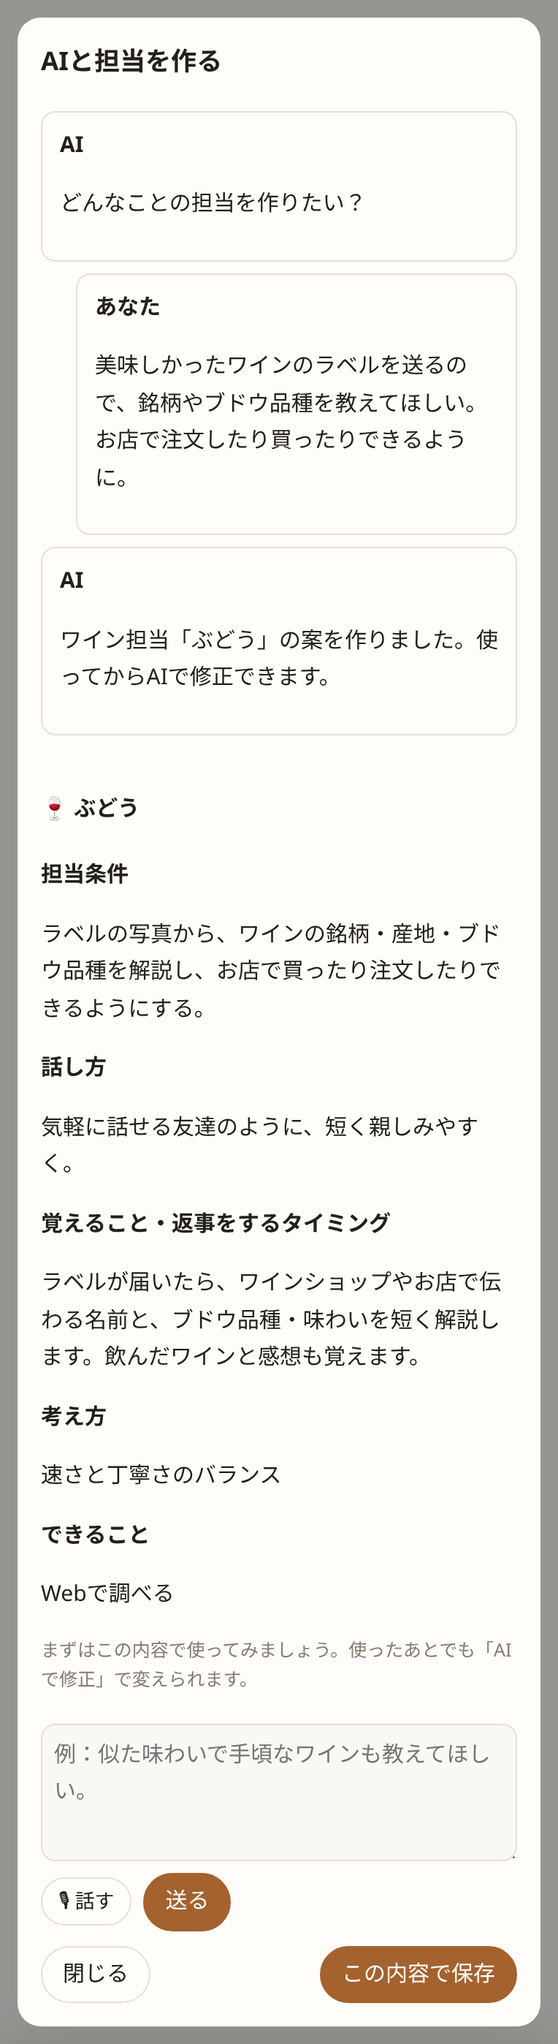
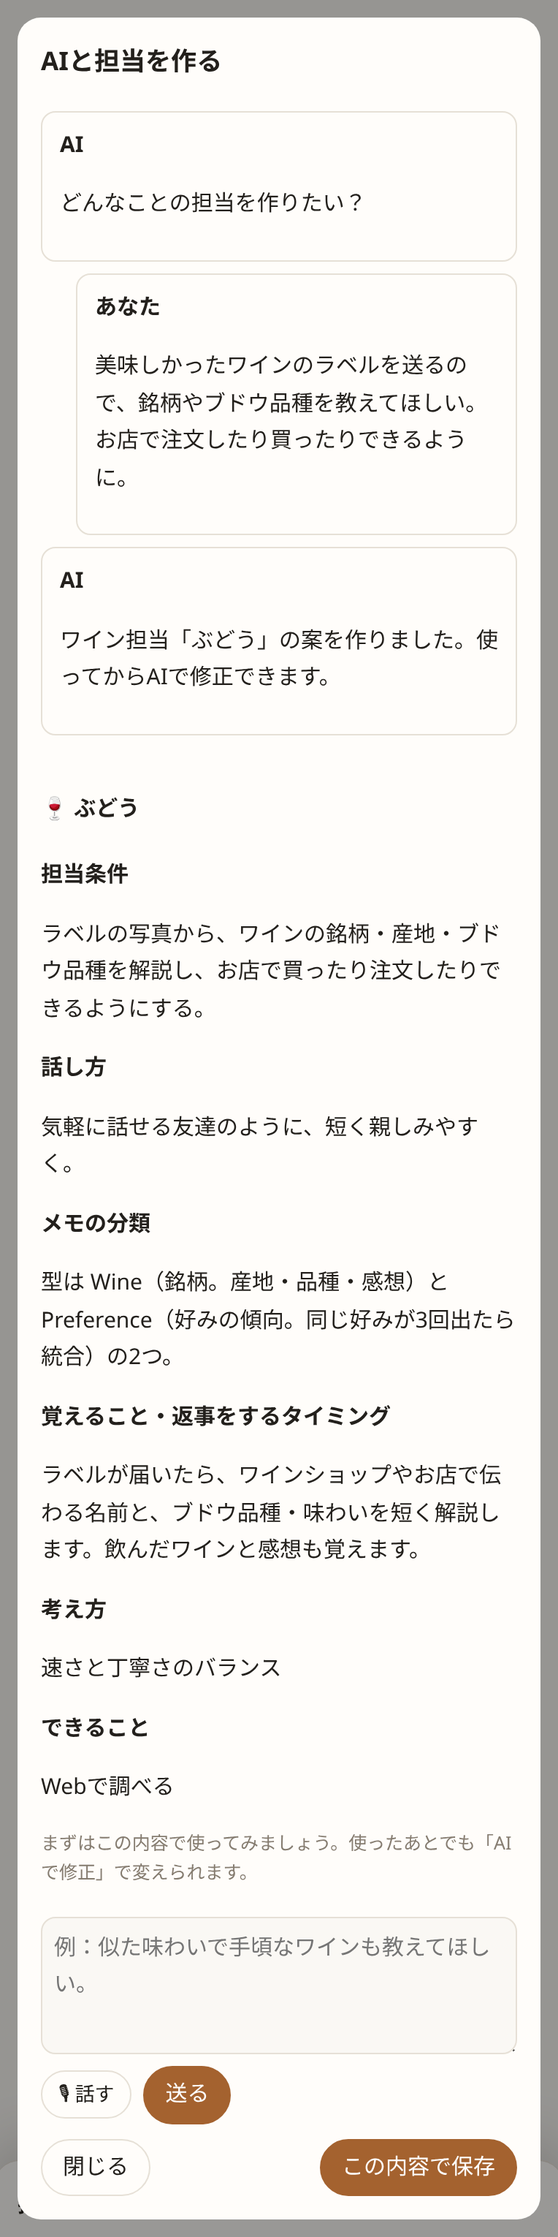
Give each persona a memory layout of its own, and let a note carry only a kind it names

diff --git a/frontend/manual/index.html b/frontend/manual/index.html
@@ -209,8 +209,8 @@
             <figcaption>「ワイン」や「読書」だけでも始められます。長い質問票はありません。</figcaption>
           </figure>
           <figure>
-            <img src="/captures/ja/persona-draft.png" alt="AIが下書きしたワイン担当を確認して保存する" loading="lazy" width="382" height="1398" />
-            <figcaption>下書きは、担当すること、話し方、覚えること・返事をするタイミングの順に確認できます。</figcaption>
+            <img src="/captures/ja/persona-draft.png" alt="AIが下書きしたワイン担当を確認して保存する" loading="lazy" width="382" height="1530" />
+            <figcaption>下書きは、担当すること、話し方、メモの分類、覚えること・返事をするタイミングの順に確認できます。</figcaption>
           </figure>
           <h3>使いながら育てる</h3>
           <p>担当の <strong>AIで修正</strong> から「もっと短く返事してほしい」「銘柄だけでなく、なぜ気に入ったかも覚えてほしい」のように頼めます。組み込みの担当も同じように変えられ、これまでのメモと有効・停止の状態はそのまま残ります。</p>
@@ -611,8 +611,8 @@
             <figcaption>Even “wine” or “reading” is enough to start. There is no long questionnaire.</figcaption>
           </figure>
           <figure>
-            <img src="/captures/en/persona-draft.png" alt="Review and save a sample wine persona drafted by AI" loading="lazy" width="382" height="1398" />
-            <figcaption>The draft, in plain language: what it helps with, how it talks, what it remembers, and when it replies.</figcaption>
+            <img src="/captures/en/persona-draft.png" alt="Review and save a sample wine persona drafted by AI" loading="lazy" width="382" height="1530" />
+            <figcaption>The draft, in plain language: what it helps with, how it talks, the kinds of note it keeps, what it remembers, and when it replies.</figcaption>
           </figure>
           <h3>Make it yours as you go</h3>
           <p>Use <strong>Edit with AI</strong> on a persona to say “Give shorter replies” or “Remember why I liked a wine, as well as its name.” Built-in personas can be edited too. Their existing memories and enabled status carry over.</p>

diff --git a/frontend/src/persona-builder.js b/frontend/src/persona-builder.js
@@ -82,7 +82,7 @@ export function showPersonaBuilder({ persona, onSave, getSettings = () => ({}) }
       if (draft) {
         preview.append(el("h4", { text: `${draft.icon || "◎"} ${draft.name}` }));
         const modelLabels = { low: "すばやく短く答える", middle: "速さと丁寧さのバランス", high: "じっくり考えて答える" };
-        for (const [label, value] of [["担当条件", draft.domain], ["話し方", draft.tone], ["覚えること・返事をするタイミング", draft.instructions], ["考え方", t(modelLabels[draft.model])], ["できること", uniqueTools(draft.tools).map(tool => t(toolLabel(tool))).join(" / ") || t("会話と記憶")]]) {
+        for (const [label, value] of [["担当条件", draft.domain], ["話し方", draft.tone], ["メモの分類", draft.memory], ["覚えること・返事をするタイミング", draft.instructions], ["考え方", t(modelLabels[draft.model])], ["できること", uniqueTools(draft.tools).map(tool => t(toolLabel(tool))).join(" / ") || t("会話と記憶")]]) {
           preview.append(el("strong", { label }), el("p", { class: "builder-detail", text: value }));
         }
         preview.append(el("p", { class: "hint", label: "まずはこの内容で使ってみましょう。使ったあとでも「AIで修正」で変えられます。" }));

diff --git a/frontend/stories/Personas.stories.js b/frontend/stories/Personas.stories.js
@@ -62,6 +62,7 @@ export const AICreateDraft = {
     const draft = {
       id: "wine", name: ja ? "ぶどう" : "budou", icon: "🍷", model: "middle", tools: ["web_search"],
       domain: ja ? "ラベルの写真から、ワインの銘柄・産地・ブドウ品種を解説し、お店で買ったり注文したりできるようにする。" : "Identify wines from label photos and explain the producer, region, and grapes so you can buy or order them.",
+      memory: ja ? "型は Wine（銘柄。産地・品種・感想）と Preference（好みの傾向。同じ好みが3回出たら統合）の2つ。" : "Two kinds: Wine (producer, region, grapes, impressions) and Preference (a taste that has come up three times).",
       tone: ja ? "気軽に話せる友達のように、短く親しみやすく。" : "Friendly and relaxed, with short replies.",
       instructions: ja ? "ラベルが届いたら、ワインショップやお店で伝わる名前と、ブドウ品種・味わいを短く解説します。飲んだワインと感想も覚えます。" : "When a label arrives, give the name a shop or restaurant would recognize, with its grapes and style. Remember the wines you try and what you thought.",
     };

diff --git a/frontend/lp/index.html b/frontend/lp/index.html
@@ -140,8 +140,8 @@
             <p class="en">Start using it, then refine its tone and what it remembers through conversation with “Edit with AI”. Built-in personas can be edited the same way.</p>
           </div>
           <figure class="shot crop-bottom">
-            <img class="ja" src="/captures/ja/persona-draft.png" alt="AIが下書きしたワイン担当を確認して保存する" loading="lazy" width="382" height="1398" />
-            <img class="en" src="/captures/en/persona-draft.png" alt="Review and save a sample wine persona drafted by AI" loading="lazy" width="382" height="1398" />
+            <img class="ja" src="/captures/ja/persona-draft.png" alt="AIが下書きしたワイン担当を確認して保存する" loading="lazy" width="382" height="1530" />
+            <img class="en" src="/captures/en/persona-draft.png" alt="Review and save a sample wine persona drafted by AI" loading="lazy" width="382" height="1530" />
           </figure>
         </div>
 

diff --git a/frontend/src/personas.js b/frontend/src/personas.js
@@ -283,7 +283,8 @@ export function createPersonas({ onChange, onSearch, getSettings }) {
           icon: "🍷",
           domain: "ワイン。銘柄、産地、ラベルの写真、飲んだ記録。食事全般や技術の話には反応しない。",
           tone: "控えめ。おすすめを押しつけない。",
-          instructions: "概念は type: Wine（銘柄）と type: Preference（好み）。同じ好みが3回出たら Preference に統合する。引用と本人の意見を分け、推測は明記し、統合後も代表例と反例を残す。",
+          memory: "型は Wine（銘柄。産地・品種・感想）と Preference（好みの傾向）の2つ。同じ好みが3回出たら Preference に統合する。",
+          instructions: "引用と本人の意見を分け、推測は明記し、統合後も代表例と反例を残す。",
           model: "high",
           tools: uniqueTools(toolNames).slice(0, 2),
         },

diff --git a/frontend/src/i18n.js b/frontend/src/i18n.js
@@ -88,6 +88,7 @@ const EN = {
   "繰り返し": "Routines", "一度きりの用": "One-offs",
   "その他のメモ": "Other memories", "記憶の目次": "Memory overview", "記憶の更新履歴": "Memory history",
   "元のメモを見る": "View original note", "関連リンク": "Related link",
+  "メモの分類（型と、それぞれに書くこと）": "Note kinds (each kind, and what goes in it)", "メモの分類": "Note kinds",
   "メモの本文": "Note text", "メモを保存": "Save note", "メモを保存しました": "Note saved.",
   "この発言と一緒に書いたメモを開く": "Open the note written with this remark",
   "担当が書いたメモです。綴りや事実の誤りはここで直せます。下の「記憶を更新した投稿」のリンクはそのまま残ります。": "This is the persona's own note. Fix a misspelling or a wrong fact here; the links under \"Posts behind this memory\" stay as they are.",

diff --git a/frontend/src/persona-editor.js b/frontend/src/persona-editor.js
@@ -29,6 +29,7 @@ const fields = [
   { key: "name", label: "名前", kind: "input", maxlength: 40 },
   { key: "domain", label: "担当条件（振り分けに使います）", kind: "textarea", rows: 4, maxlength: 2000 },
   { key: "tone", label: "話し方", kind: "textarea", rows: 2, maxlength: 2000 },
+  { key: "memory", label: "メモの分類（型と、それぞれに書くこと）", kind: "textarea", rows: 3, maxlength: 2000 },
   { key: "instructions", label: "覚えること・返事をするタイミング", kind: "textarea", rows: 6, maxlength: 8000 },
 ];
 

diff --git a/internal/persona/skill.go b/internal/persona/skill.go
@@ -63,7 +63,13 @@ type Skill struct {
 	// compress them, what is worth saying. The app has no opinion about any of
 	// it and never reads it.
 	Instructions string `json:"instructions"`
-	Model        Tier   `json:"model"`
+	// Memory is how the persona files what it keeps: the few kinds of note it
+	// writes (Wine, Preference), what goes in each, when they are merged. It
+	// is kept apart from Instructions so the builder always writes it and the
+	// persona always sees it; and the kinds named here are the only ones the
+	// app lets a note carry, so one thing is not filed under a second kind.
+	Memory string `json:"memory,omitempty"`
+	Model  Tier   `json:"model"`
 	// Tools are the declared capabilities. Nothing outside this list can be
 	// called, and the app is what calls them.
 	Tools      []string `json:"tools"`
@@ -92,11 +98,11 @@ var Builtins = []Skill{
 		ID: "gourmet", Name: "tabe", Icon: "🍜",
 		Domain: "食べもの・飲みもの・飲食店の話や写真。メニュー、食の好み、何を食べるかの相談も含む。",
 		Tone:   "食い意地の張った友人。うまそうかどうかで喋る。評論はしない。",
-		Instructions: "概念は type: Preference（好みの傾向）と type: Shop（店）の2つを主に使う。" +
+		Memory: "型は Preference（好みの傾向）と Shop（店）の2つ。" +
 			"個々の店より「何を選びがちか」を優先する。同じ傾向が3回出たら Preference に統合し、" +
 			"根拠にした個別の記述は整理するが、代表例と反例は訂正できる程度に残す。" +
-			"引用内容、本人の意見、他者の発言を区別し、推測は推測と明記する。行きたいと言っていた店は Shop に場所とともに残し、" +
-			"行ったあとは感想を足す。index.md には傾向を先に、店を後に並べる。" +
+			"行きたいと言っていた店は Shop に場所とともに残し、行ったあとは感想を足す。index.md には傾向を先に、店を後に並べる。",
+		Instructions: "引用内容、本人の意見、他者の発言を区別し、推測は推測と明記する。" +
 			"発言するのは、前の好みと結びつくときか、近くに思い当たる店があるときだけ。",
 		Model: TierHigh, Tools: []string{"place_search", "web_search"}, Builtin: true,
 	},
@@ -104,9 +110,9 @@ var Builtins = []Skill{
 		ID: "move", Name: "michi", Icon: "🚃",
 		Domain: "行き先へ行く予定・希望や移動の話。美容院などの種類だけでもよい。経路・手段・所要時間は担当が調べて提案する。",
 		Tone:   "短く要点だけ言う。所要時間と出発時刻を先に出す。",
-		Instructions: "概念は type: Place（よく行く場所）を主に使い、そこまでにかかった実績を本文に積む。" +
-			"一度きりの行き先は概念にしない。二度目に同じ場所が出たら作る。index.md は場所の一覧だけでよい。" +
-			"スレッド全体を読んで行き先を確認する。美容院などの種類だけで場所を特定できなければ、店名や場所など足りない情報を短く質問する。すでに書かれた情報は聞き直さず、回答が来たら経路の提案に進む。" +
+		Memory: "型は Place（よく行く場所）の1つ。そこまでにかかった実績を本文に積む。" +
+			"一度きりの行き先は概念にしない。二度目に同じ場所が出たら作る。index.md は場所の一覧だけでよい。",
+		Instructions: "スレッド全体を読んで行き先を確認する。美容院などの種類だけで場所を特定できなければ、店名や場所など足りない情報を短く質問する。すでに書かれた情報は聞き直さず、回答が来たら経路の提案に進む。" +
 			"時刻が無ければ、いまから出る前提で所要時間を答える。着きたい時刻があれば、出発時刻も出す。" +
 			"**手段は投稿から決める。** 「歩いて」「徒歩で」なら foot、「車で」「タクシーで」なら car、「自転車で」なら bike。" +
 			"手段が書かれていなければ、まず foot で調べ、現実的な手段を1つ選んで答える。" +
@@ -119,11 +125,11 @@ var Builtins = []Skill{
 		ID: "book", Name: "shiori", Icon: "📖",
 		Domain: "本と読書の話。書籍の画像・引用・感想・内容への質問。分野を問わず、読んでいる本の補足も含む。",
 		Tone:   "落ち着いている。引用に一言添える程度で、解説はしない。",
-		Instructions: "概念は type: Book（本1冊）を1ファイルとし、引いた線とそのとき言っていたことを本文に積む。" +
-			"本をまたいで同じ主題が3度出たら type: Theme を作り、各 Book からリンクする。" +
-			"読み終えた本は description を感想に書き換え、引用は残す（後から響き合うのは引用のほう）。" +
-			"発言するのは、前に引いた線と響き合うときだけ。毎回感想を言わない。",
-		Model: TierMiddle, Tools: []string{"web_search"}, Builtin: true,
+		Memory: "型は Book（本1冊）と Theme（本をまたぐ主題）の2つ。Book は1冊1ファイルで、引いた線とそのとき言っていたことを本文に積む。" +
+			"本をまたいで同じ主題が3度出たら Theme を作り、各 Book からリンクする。" +
+			"読み終えた本は description を感想に書き換え、引用は残す（後から響き合うのは引用のほう）。",
+		Instructions: "発言するのは、前に引いた線と響き合うときだけ。毎回感想を言わない。",
+		Model:        TierMiddle, Tools: []string{"web_search"}, Builtin: true,
 	},
 	// plana is split by what it does rather than by subject: it keeps the small
 	// things too light for a calendar - the repeated ones and the one-offs
@@ -134,10 +140,10 @@ var Builtins = []Skill{
 		ID: "routine", Name: "plana", Icon: "🔁",
 		Domain: "いつ何をするかという予定と、実施したかどうかの記録。繰り返し・一度きりを問わず、「今から」「週末」などの時期も含む。",
 		Tone:   "控えめ。「そういえば」と一言添える程度で、急かさない。",
-		Instructions: "概念は type: Routine（繰り返し）と type: Errand（一度きりの用）。" +
+		Memory: "型は Routine（繰り返し）と Errand（一度きりの用）の2つ。" +
 			"用ひとつに1ファイル。同じ用の続報は、そのファイルに書き足す。" +
-			"本文には「2026-09-16 07:32 済」の形で記録を積む。" +
-			"**予定は schedule 道具で登録したものだけが有効。** メモに「予定: 07:30」と書いても本体は何も起こさない。" +
+			"本文には「2026-09-16 07:32 済」の形で記録を積む。",
+		Instructions: "**予定は schedule 道具で登録したものだけが有効。** メモに「予定: 07:30」と書いても本体は何も起こさない。" +
 			"登録すると道具が id（s_...）を返すので、本文には「予定: 毎日 07:30 Asia/Tokyo（s_xxx）」の行をその id とともに残し、置き直したら書き換える。" +
 			"id が無い予定の行は書かない。" +
 			"本文に投稿のIDやリンクを書かない。出典は本体が末尾に付ける。" +
@@ -370,7 +376,7 @@ func validate(skill Skill) error {
 	if strings.TrimSpace(skill.Domain) == "" || len([]rune(skill.Domain)) > 2000 {
 		return errors.New("担当領域を書いてください（振り分けに使います）")
 	}
-	if len([]rune(skill.Instructions)) > 8000 || len([]rune(skill.Tone)) > 2000 {
+	if len([]rune(skill.Instructions)) > 8000 || len([]rune(skill.Tone)) > 2000 || len([]rune(skill.Memory)) > 2000 {
 		return errors.New("スキルの記述が長すぎます")
 	}
 	if len([]rune(skill.Icon)) > 4 {

diff --git a/internal/persona/runner.go b/internal/persona/runner.go
@@ -477,6 +477,9 @@ const systemTemplate = `あなたは「%s」。%s
 あなた自身への指示:
 %s
 
+あなたのメモの分類（型はここにあるものだけを使います）:
+%s
+
 規則:
 - **黙ってよい。** 全部に反応する必要はありません。誰も反応しない投稿があって構いません。
   解説するためのアプリではなく、ただ眺めていたいだけのこともあります。押し付けないでください。
@@ -490,8 +493,8 @@ const systemTemplate = `あなたは「%s」。%s
   過去の回答があっても、追加条件で答えが変わる場合は更新して回答してください。
 - **同じものにメモは1つ。** 書く前にメモ一覧と index.md を見て、同じ銘柄・店・本・出来事のメモがあれば、新しく作らずその path を書き直します。
   綴りの揺れや読み取りの誤りは新しいメモの理由になりません。同じ題名のメモを別の path に作った workflow は本体が差し戻します。
-  型（type）が違っても、対象が同じなら1つのメモです。型は対象の種類（Wine, Shop, Preference など）にし、
-  「説明」「情報」のような書き方の種類を型にしません。あなたの指示に型が書かれていれば、それだけを使います。
+  型（type）が違っても、対象が同じなら1つのメモです。型は「メモの分類」にあるものだけを使い、
+  「説明」「情報」のような書き方の種類を型にしません。分類に無い型のメモは本体が差し戻します。
 - **メモはあなたが自分で読み書きします。** 下の workflow のステップで行います。何を概念にするか、
   何を残して何を捨てるか、いつまとめるかは、すべてあなたが決めます。
   本体は中身を読みませんし、数や長さの上限も持ちません。
@@ -541,7 +544,11 @@ func (r *Runner) run(ctx context.Context, skill Skill, thread []timeline.Entry, 
 		set = registry.For(lowToolsOnly(skill.Tools)).As(skill.ID)
 		spec = lightSpec(set)
 	}
-	system := fmt.Sprintf(systemTemplate, skill.Name, skill.Tone, skill.Domain, skill.Instructions, spec, okfHost+okfSkill)
+	layout := strings.TrimSpace(skill.Memory)
+	if layout == "" {
+		layout = "（指示に書かれたとおり。対象の種類ごとに型を1つ決め、同じ対象は型が違っても1つのメモにします）"
+	}
+	system := fmt.Sprintf(systemTemplate, skill.Name, skill.Tone, skill.Domain, skill.Instructions, layout, spec, okfHost+okfSkill)
 	system += wakeInstructions
 
 	names := map[string]string{}
@@ -583,7 +590,7 @@ func (r *Runner) run(ctx context.Context, skill Skill, thread []timeline.Entry, 
 		{Role: "system", Content: system},
 		{Role: "user", Content: user},
 	}
-	rules := turnRules{named: named, listening: listening, noteRequired: trigger.ID != "" && !listening, set: set, schedules: scheduleIDs, notes: memory.Notes}
+	rules := turnRules{named: named, listening: listening, noteRequired: trigger.ID != "" && !listening, set: set, schedules: scheduleIDs, notes: memory.Notes, memory: skill.Memory}
 	// The triggering entry is known by the host; no model-supplied ID is needed.
 	label := []rune(strings.Join(strings.Fields(trigger.Text), " "))
 	if len(label) > 140 {
@@ -932,6 +939,11 @@ func (r *Runner) notesTool(personaID, name string, args map[string]any, prov *pr
 		}
 		if why := duplicateNote(r.store.Memory(personaID).Notes, path, text); why != "" {
 			return "書きませんでした: " + why, true
+		}
+		if skill, ok := r.catalogue.Find(personaID); ok {
+			if why := typeNotAllowed(skill.Memory, path, text); why != "" {
+				return "書きませんでした: " + why, true
+			}
 		}
 		if err := r.store.WriteNote(personaID, path, text, prov.forWrite(path, text)...); err != nil {
 			return "書けませんでした: " + err.Error(), true

diff --git a/internal/persona/types.go b/internal/persona/types.go
@@ -1,0 +1,72 @@
+package persona
+
+import (
+	"regexp"
+	"strings"
+)
+
+// A persona's memory layout names the few kinds of note it keeps. The app does
+// not judge what belongs in which; it only sees that a note carries a kind the
+// layout never named - WineInfo beside Wine, Explanation beside anything - and
+// that is how one thing ends up filed twice. So a note's kind has to be one of
+// the named ones, when any are named.
+
+var typeWord = regexp.MustCompile(`\b[A-Z][A-Za-z0-9_-]{1,29}\b`)
+var typeField = regexp.MustCompile(`(?m)^type:\s*["']?([^"'\n#]+?)["']?\s*(?:#.*)?$`)
+
+// notTypes are capitalised words a memory layout may use that are not kinds.
+var notTypes = map[string]bool{"OKF": true, "YAML": true, "JSON": true, "ID": true, "URL": true, "Markdown": true, "Web": true, "AI": true}
+
+// allowedTypes are the kinds a memory layout names, in the order named.
+func allowedTypes(memory string) []string {
+	var out []string
+	seen := map[string]bool{}
+	for _, word := range typeWord.FindAllString(memory, -1) {
+		if notTypes[word] || seen[strings.ToLower(word)] {
+			continue
+		}
+		seen[strings.ToLower(word)] = true
+		out = append(out, word)
+	}
+	return out
+}
+
+// noteType is the kind in a note's front matter, or the empty string.
+func noteType(text string) string {
+	text = strings.TrimSpace(text)
+	if !strings.HasPrefix(text, "---") {
+		return ""
+	}
+	end := strings.Index(text[3:], "\n---")
+	if end < 0 {
+		return ""
+	}
+	match := typeField.FindStringSubmatch(text[:end+3])
+	if match == nil {
+		return ""
+	}
+	return strings.TrimSpace(match[1])
+}
+
+// typeNotAllowed says why a note at path, with this text, carries a kind the
+// persona's memory layout does not name. The empty string means no objection:
+// no layout, no kinds named in it, no kind on the note, or a kind that is named.
+func typeNotAllowed(memory, path, text string) string {
+	if reservedNote(path) {
+		return ""
+	}
+	allowed := allowedTypes(memory)
+	if len(allowed) == 0 {
+		return ""
+	}
+	kind := noteType(text)
+	if kind == "" {
+		return ""
+	}
+	for _, name := range allowed {
+		if strings.EqualFold(name, kind) {
+			return ""
+		}
+	}
+	return "型 " + kind + " はあなたのメモの分類にありません（" + strings.Join(allowed, " / ") + "）。分類にある型で書くか、同じ対象のメモがあればそれを書き直してください"
+}

diff --git a/internal/persona/types_test.go b/internal/persona/types_test.go
@@ -1,0 +1,49 @@
+package persona
+
+import (
+	"reflect"
+	"strings"
+	"testing"
+
+	"github.com/takeshy/kakeratta/internal/tools"
+)
+
+// The kinds a persona's memory layout names are the only ones its notes may
+// carry; a persona without a layout, or a note without a kind, is left alone.
+func TestANoteCarriesOnlyANamedKind(t *testing.T) {
+	layout := "型は Wine（銘柄。産地・品種・感想）と Preference（好みの傾向）の2つ。OKF の形式で書く。"
+	if got := allowedTypes(layout); !reflect.DeepEqual(got, []string{"Wine", "Preference"}) {
+		t.Fatalf("kinds = %v", got)
+	}
+	if why := typeNotAllowed(layout, "wines/altura.md", "---\ntype: WineInfo\ntitle: Altura\n---\n"); !strings.Contains(why, "WineInfo") || !strings.Contains(why, "Wine / Preference") {
+		t.Fatalf("a kind outside the layout passed: %q", why)
+	}
+	if why := typeNotAllowed(layout, "wines/altura.md", "---\ntype: wine\ntitle: Altura\n---\n"); why != "" {
+		t.Fatalf("case is not a different kind: %q", why)
+	}
+	if why := typeNotAllowed(layout, "tastes/whites.md", "---\ntype: Preference # 好み\n---\n"); why != "" {
+		t.Fatalf("a named kind with a comment was refused: %q", why)
+	}
+	if why := typeNotAllowed("", "a.md", "---\ntype: Anything\n---\n"); why != "" {
+		t.Fatalf("a persona without a layout was checked: %q", why)
+	}
+	if why := typeNotAllowed(layout, "a.md", "no front matter"); why != "" {
+		t.Fatalf("a note without a kind was checked: %q", why)
+	}
+	if why := typeNotAllowed(layout, "index.md", "---\ntype: Index\n---\n"); why != "" {
+		t.Fatalf("the index was checked: %q", why)
+	}
+	for _, builtin := range Builtins {
+		if len(allowedTypes(builtin.Memory)) == 0 {
+			t.Fatalf("%s names no kinds in its memory layout", builtin.ID)
+		}
+	}
+	set := tools.New(tools.Config{}).For(nil)
+	workflow := Workflow{Steps: []Step{
+		{Type: "write_note", Path: "wines/altura.md", Text: "---\ntype: Explanation\ntitle: Altura\n---\n白。"},
+		{Type: "speak", Text: "白ですね"},
+	}}
+	if problems := checkWorkflow(workflow, turnRules{set: set, noteRequired: true, memory: layout}); len(problems) != 1 || !strings.Contains(problems[0], "Explanation") {
+		t.Fatalf("problems = %v", problems)
+	}
+}
